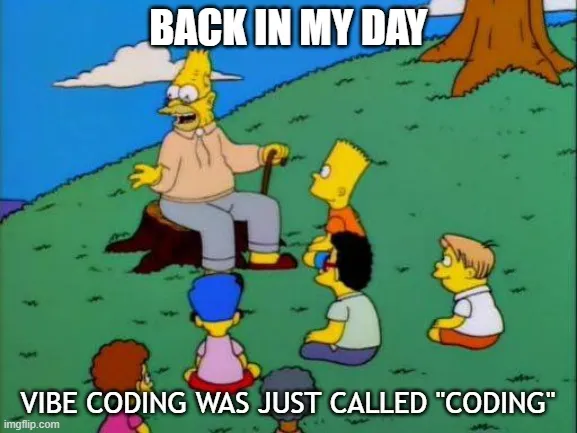
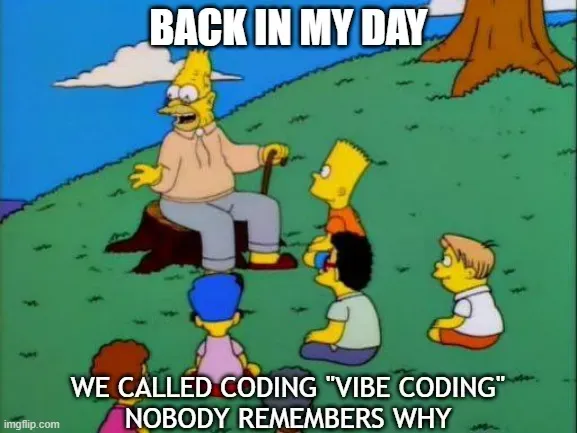
content(blog): swap the closing meme, its logic ran backwards (#10)
greg replaced the final image in Notion. The old one ("back in my day, vibe coding was just called coding") framed the present as the past, but the paragraph it sits under is set 20 years in the FUTURE looking back at now, so the joke pointed the wrong way down the timeline. The new one ("we called coding vibe coding, nobody remembers why") points forward correctly.

Same filename reused (still accurate, avoids orphaning the old file); the deploy invalidates CloudFront. Identical dimensions 577x433, so no layout-shift change. Alt text and caption re-synced from Notion ("not to mention," -> "also,"). Build stays at 91 pages.

Changed region(s): [[0.0312, 0.8406, 0.9671, 1.0]]

diff --git a/content/blog/2026-07-17-vibe-coding-has-killed-my-sanity.md b/content/blog/2026-07-17-vibe-coding-has-killed-my-sanity.md
@@ -52,9 +52,9 @@ Vibe coders may also relate to the fact that, once this is done, I will almost d
 
 I feel like, 20 years from now, this will be a silly thing to worry about. Vibe coding will be so common that your grandmother will be doing it in her spare time. And I'll be sitting back in a rocking chair with a piece of pine straw in my teeth, saying things like, "back in _my_ day, 100 tokens could get you a full-stack browser-based model-view-controller finance tracking app, with enough left over to build a python log parser to boot." And all the village children will listen to my stories with amazement and wonder.
 
-![Abe Simpson sitting on a tree stump lecturing Bart and a group of kids, captioned "back in my day, vibe coding was just called 'coding'"](/blog/abe-simpson-back-in-my-day.webp)
+![Abe Simpson sitting on a tree stump lecturing Bart and a group of kids, captioned "back in my day we called coding 'vibe coding', nobody remembers why"](/blog/abe-simpson-back-in-my-day.webp)
 
-_not to mention, youtube had a "dislike" button_
+_also, youtube had a "dislike" button_
 
 For now, though, this is new territory, and I'm still figuring it out. In the meantime, all I know how to do is build. Because I really, really need to build.
 
